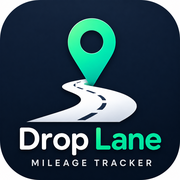
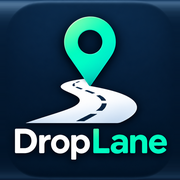
The new mark, full-bleed, and the lockup in the hero
Two changes from the app repo, where the site is generated.

The icon artwork is new — the unreadable MILEAGE TRACKER line under the
wordmark is gone and the pin and road are cleaner. It is also full-bleed now:
the supplied files carried a white frame around the tile, so the favicon, the
apple-touch-icon and the nav mark all showed a white edge inside the CSS
rounding. icon-180, icon-512 and logo are regenerated from a master cropped to
the tile itself.

The hero opens with the mark instead of a price pill: the icon at 60px beside
the wordmark, "Lane" in the money green. It reuses icon-180, which the nav has
already fetched, so it is cached and costs no extra request.

Generated from Scripts/build_site.py in the app repo — never edit these pages
by hand. Twenty-six pages, one template.

diff --git a/ru/index.html b/ru/index.html
@@ -168,6 +168,12 @@
 <section class="hero">
   <div class="wrap hero-grid">
     <div>
+      <!-- The mark at the size it deserves. Same file the nav already loaded,
+           so the browser has it cached and this costs no extra request. -->
+      <div class="hero-brand">
+        <img src="/assets/icon-180.png" alt="" width="60" height="60">
+        <span>Drop<i>Lane</i></span>
+      </div>
       <span class="eyebrow" id="detected"><span class="eyebrow-flag">🇱🇻</span><b data-region="LV">Latvia</b><span class="eyebrow-trial">14 дней бесплатно</span><span class="eyebrow-cost">затем 4,99 € в месяц</span><a href="#pricing">все цены</a></span>
       <h1>Знай, сколько на самом деле принёс день.</h1>
       <p class="lede">Заводи фургон. И всё. DropLane записывает каждую поездку и маршрут, которым ты действительно проехал, вычитает расходы из выручки, и твоя ставка за час уже готова, прежде чем ты переступишь порог.</p>

diff --git a/gr/index.html b/gr/index.html
@@ -168,6 +168,12 @@
 <section class="hero">
   <div class="wrap hero-grid">
     <div>
+      <!-- The mark at the size it deserves. Same file the nav already loaded,
+           so the browser has it cached and this costs no extra request. -->
+      <div class="hero-brand">
+        <img src="/assets/icon-180.png" alt="" width="60" height="60">
+        <span>Drop<i>Lane</i></span>
+      </div>
       <span class="eyebrow" id="detected"><span class="eyebrow-flag">🇬🇷</span><b data-region="GR">Greece</b><span class="eyebrow-trial">14 μέρες δωρεάν</span><span class="eyebrow-cost">μετά 4,99 € τον μήνα</span><a href="#pricing">δες όλες</a></span>
       <h1>Μάθε τι απέδωσε πραγματικά η μέρα.</h1>
       <p class="lede">Βάλε μπρος το βαν. Αυτό ήταν. Το DropLane καταγράφει κάθε διαδρομή και τον δρόμο που πραγματικά έκανες, αφαιρεί τα έξοδα από τα έσοδα, και έχει έτοιμη την ωριαία σου αμοιβή πριν καν μπεις στο σπίτι.</p>

diff --git a/ua/index.html b/ua/index.html
@@ -168,6 +168,12 @@
 <section class="hero">
   <div class="wrap hero-grid">
     <div>
+      <!-- The mark at the size it deserves. Same file the nav already loaded,
+           so the browser has it cached and this costs no extra request. -->
+      <div class="hero-brand">
+        <img src="/assets/icon-180.png" alt="" width="60" height="60">
+        <span>Drop<i>Lane</i></span>
+      </div>
       <span class="eyebrow" id="detected"><span class="eyebrow-flag">🇺🇦</span><b data-region="UA">Ukraine</b><span class="eyebrow-trial">14 днів безкоштовно</span><span class="eyebrow-cost">далі $4.99 на місяць</span><a href="#pricing">показати всі</a></span>
       <h1>Знай, що день заробив насправді.</h1>
       <p class="lede">Заводь бус. Оце й усе. DropLane записує кожну поїздку і той маршрут, яким ти справді їхав, віднімає витрати від заробітку, і твоя ставка за годину вже чекає, поки ти ще не зайшов у дім.</p>

diff --git a/bg/index.html b/bg/index.html
@@ -168,6 +168,12 @@
 <section class="hero">
   <div class="wrap hero-grid">
     <div>
+      <!-- The mark at the size it deserves. Same file the nav already loaded,
+           so the browser has it cached and this costs no extra request. -->
+      <div class="hero-brand">
+        <img src="/assets/icon-180.png" alt="" width="60" height="60">
+        <span>Drop<i>Lane</i></span>
+      </div>
       <span class="eyebrow" id="detected"><span class="eyebrow-flag">🇧🇬</span><b data-region="BG">Bulgaria</b><span class="eyebrow-trial">14 дни безплатно</span><span class="eyebrow-cost">после 4,99 € на месец</span><a href="#pricing">виж всички</a></span>
       <h1>Знай колко наистина донесе денят.</h1>
       <p class="lede">Запали буса. Това е. DropLane записва всяко пътуване и маршрута, по който наистина мина, приспада разходите от оборота, а ставката ти на час те чака, преди да си влязъл вкъщи.</p>

diff --git a/style.css b/style.css
@@ -320,6 +320,23 @@ h3 { font-size: 19px; font-weight: 700; letter-spacing: -.015em; margin: 0 0 7px
 .lede { font-size: 19.5px; color: var(--text-2); margin: 0 0 28px; max-width: 44ch; }
 .section-intro { font-size: 18px; color: var(--text-2); max-width: 62ch; margin: 0 0 36px; }
 
+/* The brand, stated once at a size worth looking at. The nav mark is small
+   and utilitarian; this one is the product's face — the icon people will be
+   scanning the App Store for. "DropLane" is never translated. */
+.hero-brand {
+  display: inline-flex; align-items: center; gap: 14px;
+  margin: 0 0 22px;
+}
+.hero-brand img {
+  width: 60px; height: 60px; border-radius: 17px;
+  box-shadow: var(--shadow);
+}
+.hero-brand span {
+  font-size: 31px; font-weight: 800; letter-spacing: -.03em;
+  color: var(--text); line-height: 1;
+}
+.hero-brand i { font-style: normal; color: var(--money); }
+
 .eyebrow {
   display: inline-flex; align-items: center; flex-wrap: wrap; gap: 4px 10px;
   background: var(--card); border: 1px solid var(--line);

diff --git a/lt/index.html b/lt/index.html
@@ -168,6 +168,12 @@
 <section class="hero">
   <div class="wrap hero-grid">
     <div>
+      <!-- The mark at the size it deserves. Same file the nav already loaded,
+           so the browser has it cached and this costs no extra request. -->
+      <div class="hero-brand">
+        <img src="/assets/icon-180.png" alt="" width="60" height="60">
+        <span>Drop<i>Lane</i></span>
+      </div>
       <span class="eyebrow" id="detected"><span class="eyebrow-flag">🇱🇹</span><b data-region="LT">Lithuania</b><span class="eyebrow-trial">14 dienų nemokamai</span><span class="eyebrow-cost">vėliau 4,99 € per mėnesį</span><a href="#pricing">žiūrėti visas</a></span>
       <h1>Žinok, kiek diena iš tikrųjų uždirbo.</h1>
       <p class="lede">Užvesk furgoną. Tiek to ir tereikia. DropLane užrašo kiekvieną kelionę ir maršrutą, kuriuo iš tikrųjų važiavai, atima išlaidas iš pajamų, ir tavo valandinis įkainis jau laukia dar prieš tau pareinant namo.</p>

diff --git a/lv/index.html b/lv/index.html
@@ -168,6 +168,12 @@
 <section class="hero">
   <div class="wrap hero-grid">
     <div>
+      <!-- The mark at the size it deserves. Same file the nav already loaded,
+           so the browser has it cached and this costs no extra request. -->
+      <div class="hero-brand">
+        <img src="/assets/icon-180.png" alt="" width="60" height="60">
+        <span>Drop<i>Lane</i></span>
+      </div>
       <span class="eyebrow" id="detected"><span class="eyebrow-flag">🇱🇻</span><b data-region="LV">Latvia</b><span class="eyebrow-trial">14 dienas bez maksas</span><span class="eyebrow-cost">pēc tam 4,99 € mēnesī</span><a href="#pricing">skatīt visas</a></span>
       <h1>Zini, ko diena patiešām nopelnīja.</h1>
       <p class="lede">Iedarbini furgonu. Tas arī viss. DropLane pieraksta katru braucienu un maršrutu, pa kuru tiešām brauci, atskaita izmaksas no ieņēmumiem, un tava stundas likme jau gaida, pirms esi pārkāpis mājas slieksni.</p>

diff --git a/fr/index.html b/fr/index.html
@@ -168,6 +168,12 @@
 <section class="hero">
   <div class="wrap hero-grid">
     <div>
+      <!-- The mark at the size it deserves. Same file the nav already loaded,
+           so the browser has it cached and this costs no extra request. -->
+      <div class="hero-brand">
+        <img src="/assets/icon-180.png" alt="" width="60" height="60">
+        <span>Drop<i>Lane</i></span>
+      </div>
       <span class="eyebrow" id="detected"><span class="eyebrow-flag">🇫🇷</span><b data-region="FR">France</b><span class="eyebrow-trial">14 jours gratuits</span><span class="eyebrow-cost">puis 6,99 € par mois</span><a href="#pricing">voir tout</a></span>
       <h1>Savoir ce que la journée a vraiment payé.</h1>
       <p class="lede">Démarrez le fourgon. C&#x27;est tout. DropLane enregistre chaque trajet et l&#x27;itinéraire réellement pris, retire les frais des recettes, et votre tarif horaire vous attend avant que vous ayez passé la porte.</p>

diff --git a/fi/index.html b/fi/index.html
@@ -168,6 +168,12 @@
 <section class="hero">
   <div class="wrap hero-grid">
     <div>
+      <!-- The mark at the size it deserves. Same file the nav already loaded,
+           so the browser has it cached and this costs no extra request. -->
+      <div class="hero-brand">
+        <img src="/assets/icon-180.png" alt="" width="60" height="60">
+        <span>Drop<i>Lane</i></span>
+      </div>
       <span class="eyebrow" id="detected"><span class="eyebrow-flag">🇫🇮</span><b data-region="FI">Finland</b><span class="eyebrow-trial">14 päivää ilmaiseksi</span><span class="eyebrow-cost">sitten 6,99 € kuussa</span><a href="#pricing">näytä kaikki</a></span>
       <h1>Tiedä mitä päivä oikeasti tuotti.</h1>
       <p class="lede">Käynnistä pakettiauto. Siinä kaikki. DropLane tallentaa jokaisen ajon ja reitin jota oikeasti ajoit, vähentää kulut tuloista, ja tuntipalkkasi odottaa jo ennen kuin olet ovesta sisällä.</p>

diff --git a/sk/index.html b/sk/index.html
@@ -168,6 +168,12 @@
 <section class="hero">
   <div class="wrap hero-grid">
     <div>
+      <!-- The mark at the size it deserves. Same file the nav already loaded,
+           so the browser has it cached and this costs no extra request. -->
+      <div class="hero-brand">
+        <img src="/assets/icon-180.png" alt="" width="60" height="60">
+        <span>Drop<i>Lane</i></span>
+      </div>
       <span class="eyebrow" id="detected"><span class="eyebrow-flag">🇸🇰</span><b data-region="SK">Slovakia</b><span class="eyebrow-trial">14 dní zadarmo</span><span class="eyebrow-cost">potom 4,99 € mesačne</span><a href="#pricing">zobraziť všetko</a></span>
       <h1>Vedz, čo ti deň naozaj zarobil.</h1>
       <p class="lede">Naštartuj dodávku. To je celé. DropLane zaznamená každú jazdu aj trasu, ktorou si naozaj šiel, odpočíta náklady od tržieb a tvoju hodinovku máš vyrátanú skôr, než prídeš domov.</p>

diff --git a/ro/index.html b/ro/index.html
@@ -168,6 +168,12 @@
 <section class="hero">
   <div class="wrap hero-grid">
     <div>
+      <!-- The mark at the size it deserves. Same file the nav already loaded,
+           so the browser has it cached and this costs no extra request. -->
+      <div class="hero-brand">
+        <img src="/assets/icon-180.png" alt="" width="60" height="60">
+        <span>Drop<i>Lane</i></span>
+      </div>
       <span class="eyebrow" id="detected"><span class="eyebrow-flag">🇷🇴</span><b data-region="RO">Romania</b><span class="eyebrow-trial">14 zile gratis</span><span class="eyebrow-cost">apoi 24,99 lei pe lună</span><a href="#pricing">vezi tot</a></span>
       <h1>Să știi cât a adus ziua, de fapt.</h1>
       <p class="lede">Pornește duba. Atât. DropLane înregistrează fiecare drum și traseul pe care chiar l-ai făcut, scade cheltuielile din încasări, iar tariful tău pe oră te așteaptă înainte să intri pe ușă.</p>

diff --git a/cz/index.html b/cz/index.html
@@ -168,6 +168,12 @@
 <section class="hero">
   <div class="wrap hero-grid">
     <div>
+      <!-- The mark at the size it deserves. Same file the nav already loaded,
+           so the browser has it cached and this costs no extra request. -->
+      <div class="hero-brand">
+        <img src="/assets/icon-180.png" alt="" width="60" height="60">
+        <span>Drop<i>Lane</i></span>
+      </div>
       <span class="eyebrow" id="detected"><span class="eyebrow-flag">🇨🇿</span><b data-region="CZ">Czechia</b><span class="eyebrow-trial">14 dní zdarma</span><span class="eyebrow-cost">poté 149 Kč měsíčně</span><a href="#pricing">zobrazit vše</a></span>
       <h1>Věz, co ti den doopravdy vydělal.</h1>
       <p class="lede">Nastartuj dodávku. To je celé. DropLane zaznamená každou jízdu i trasu, kterou jsi opravdu jel, odečte náklady od tržeb a tvoji hodinovku máš spočítanou dřív, než přijdeš domů.</p>
